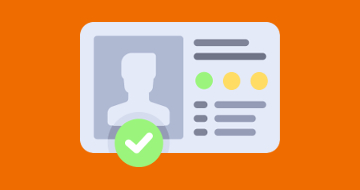
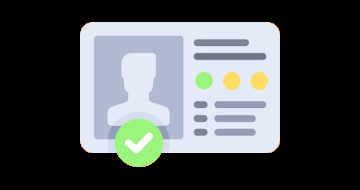
cambios de styling y keypress en login

diff --git a/src/my-view-login.html b/src/my-view-login.html
@@ -15,7 +15,7 @@
     <template>
         <style include="shared-styles">
             :host {
-                display:block;
+                display: block;
                 padding: 10px;
             }
 
@@ -49,9 +49,9 @@
             }
 
             paper-button {
-                display:block;
+                display: block;
                 max-width: 450px;
-                margin:10px auto 10px auto;
+                margin: 10px auto 10px auto;
                 text-align: center;
                 font-family: 'Roboto', 'Noto', sans-serif;
                 font-weight: normal;
@@ -60,7 +60,7 @@
             }
 
             paper-button.green {
-                background-color: #ff6f00;
+                background-color: black;
                 color: white;
             }
 
@@ -75,6 +75,7 @@
             paper-card.white {
                 --paper-card-header-color: white;
             }
+
             .cardLogin {
                 margin: 0 10px;
             }
@@ -82,11 +83,11 @@
 
         <paper-card heading="Login" image="images/login-bk.jpg" class="white">
             <div class="cardLogin">
-                <paper-input required auto-validate error-message="Es necesario, complételo" label="email" value="{{user.email}}">
+                <paper-input id="emailInput" required type="email" error-message="Es necesario, complételo" label="email" value="{{user.email}}">
                     <iron-icon icon="mail" slot="prefix"></iron-icon>
                 </paper-input>
-                <paper-input type="password" label="password" value="{{user.password}}" required auto-validate error-message="Es necesario, complételo"></paper-input>
-                <paper-button on-tap="loguearse" raised class="green">Ingresar</paper-button>
+                <paper-input id="pswInput" type="password" label="password" value="{{user.password}}" required error-message="Es necesario, complételo"></paper-input>
+                <paper-button id="logButton" on-tap="loguearse" raised class="green">Ingresar</paper-button>
             </div>
         </paper-card>
 
@@ -100,8 +101,8 @@
             </iron-form>
         </paper-dialog>
 
-        <iron-ajax id="ajaxlogin" method="POST" url="https://tupeso-server.herokuapp.com/api/clientes/login" params='' handle-as="json" on-response="respuestalogin"
-            content-type="application/json" debounce-duration="300" on-error="_errorLogin"></iron-ajax>
+        <iron-ajax id="ajaxlogin" method="POST" url="https://tupeso-server.herokuapp.com/api/clientes/login" params='' handle-as="json"
+            on-response="respuestalogin" content-type="application/json" debounce-duration="300" on-error="_errorLogin"></iron-ajax>
         <app-location route="{{route}}" url-space-regex="^[[rootPath]]">
         </app-location>
 
@@ -143,6 +144,9 @@
                 }
             }
             loguearse() {
+                if (!this.$.emailInput.validate() || !this.$.pswInput.validate()) {
+                    return;
+                }
                 this.$.ajaxlogin.body = JSON.stringify({
                     'email': this.user.email,
                     'password': this.user.password
@@ -181,10 +185,9 @@
                 localStorage.setItem("usrId", null);
                 localStorage.setItem("usrN", null);
                 console.log("paso");
+                window.addEventListener('keydown', e => (e.keyCode == 13) ? this.$.logButton.click() : nothing);
             }
-
         }
-
         window.customElements.define(MyViewLogin.is, MyViewLogin);
     </script>
 </dom-module>

diff --git a/src/my-view-historia.html b/src/my-view-historia.html
@@ -46,7 +46,7 @@ subject to an additional IP rights grant found at http://polymer.github.io/PATEN
       paper-fab {
         display: block;
         float: right;
-        --paper-fab-background: #e65100;
+        --paper-fab-background: black;
       }
 
       .item {
@@ -75,16 +75,16 @@ subject to an additional IP rights grant found at http://polymer.github.io/PATEN
       }
 
       paper-button.indigo {
-        background-color: #ff6f00;
+        background-color: black;
         color: white;
         --paper-button-raised-keyboard-focus: {
-          background-color: #e65100 !important;
+          background-color: black !important;
           color: white !important;
         }
       }
 
       paper-button.indigo:hover {
-        background-color: #e65100;
+        background-color: black;
       }
 
       h1 {
@@ -101,7 +101,7 @@ subject to an additional IP rights grant found at http://polymer.github.io/PATEN
       paper-card.white {
         --paper-card-header-color: white;
         --paper-card-header: {
-          background-color: #e65100;
+          background-color: black;
         }
         ;
       }
@@ -136,7 +136,7 @@ subject to an additional IP rights grant found at http://polymer.github.io/PATEN
       <h2>Nuevo Pesaje</h2>
       <iron-form id="formPeso">
         <form action="/foo" method="get">
-          <paper-input autofocus id="peso" name="peso" label="Peso" value="" auto-validate allowed-pattern="[0-9.]" required></paper-input>
+          <paper-input autofocus id="peso" name="peso" label="Peso" value="" allowed-pattern="[0-9.]{1,3}" required></paper-input>
           <paper-button class="indigo" raised on-click="submitForm">Enviar</paper-button>
           <paper-button class="indigo" raised on-click="resetForm">Limpiar</paper-button>
         </form>
@@ -156,7 +156,7 @@ subject to an additional IP rights grant found at http://polymer.github.io/PATEN
       on-error="handleAjaxDeleteError" />
     </iron-ajax>
     <iron-resizable-behavior></iron-resizable-behavior>
-  </template>
+</template>
 
   <script>
     class MyViewHistoria extends ReduxMixin(Polymer.mixinBehaviors(Polymer.IronResizableBehavior, Polymer.Element)) {
@@ -221,6 +221,13 @@ subject to an additional IP rights grant found at http://polymer.github.io/PATEN
         console.log(this);
       }
       submitForm() {
+        if (!this.$.peso.validate()) {
+          return ;
+        }
+        if (!(this.$.peso.value > 0 && this.$.peso.value < 500)) {
+          alert("Peso invalido")  
+          return ;
+        }
         this.$.AjaxPost.body = {
           "peso": this.$.peso.value,
           "fecha": Date()

diff --git a/src/my-app.html b/src/my-app.html
@@ -39,7 +39,7 @@ subject to an additional IP rights grant found at http://polymer.github.io/PATEN
 
     <style>
        :host {
-        --app-primary-color: #ff8f00;
+        --app-primary-color: black;
         --app-secondary-color: black;
         --app-drawer-width: 200px;
       }
@@ -75,7 +75,7 @@ subject to an additional IP rights grant found at http://polymer.github.io/PATEN
       }
 
       paper-button.green {
-        background-color: #ff6f00;
+        background-color: black;
         color: white;
       }
 
@@ -100,7 +100,7 @@ subject to an additional IP rights grant found at http://polymer.github.io/PATEN
 
     <style is="custom-style">
       paper-toolbar {
-        --paper-toolbar-background: #ff8f00;
+        --paper-toolbar-background: black;
       }
     </style>
     <app-location route="{{route}}" url-space-regex="^[[rootPath]]">

diff --git a/src/my-view-signup.html b/src/my-view-signup.html
@@ -53,7 +53,7 @@
             }
 
             paper-button.green {
-                background-color: #ff6f00;
+                background-color:black;
                 color: white;
             }
 
@@ -189,7 +189,7 @@
                 // this.refresh();
 
             }
-
+            
 
             _toggleSexo() {
                 if (this.sexoC == null) {

diff --git a/src/my-view-userupdate.html b/src/my-view-userupdate.html
@@ -54,7 +54,7 @@
             }
 
             paper-button.green {
-                background-color: #ff6f00;
+                background-color: black;
                 color: white;
             }
 
